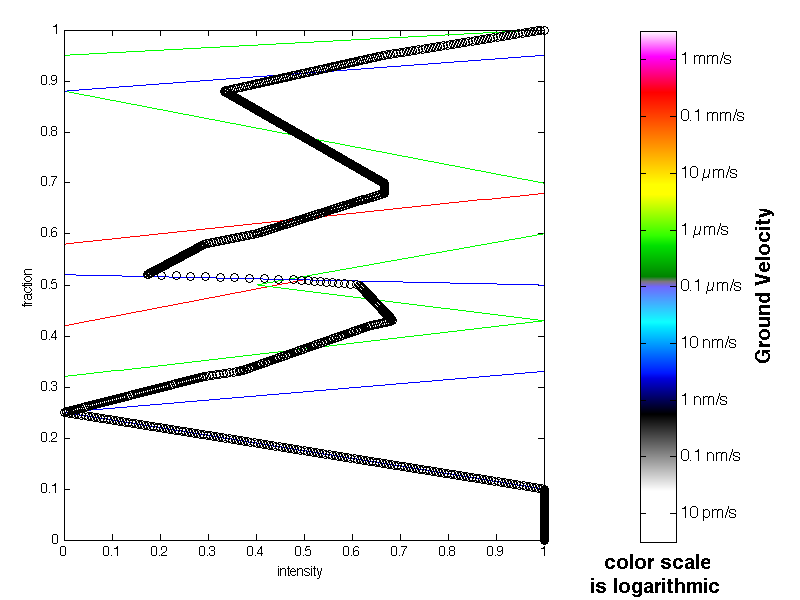
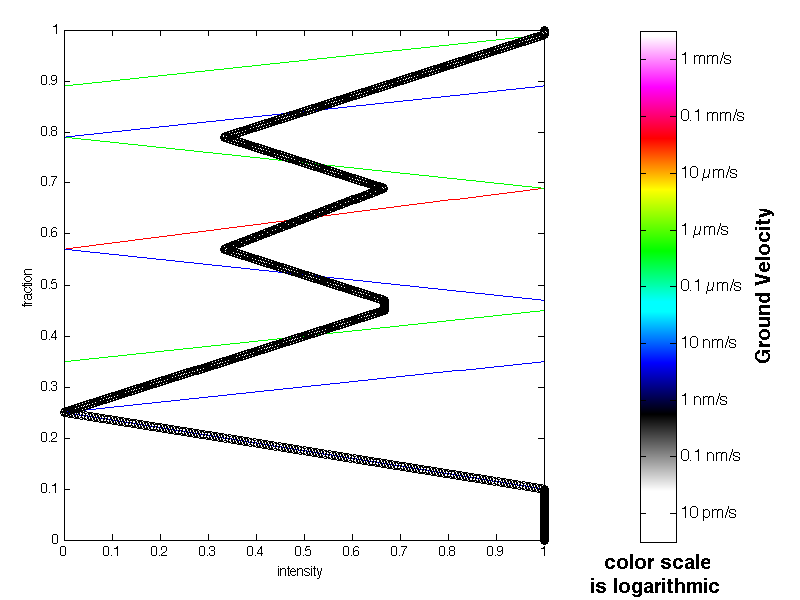
Minor improvement to colormap

diff --git a/data/matlab/toolbox/TreMoR/setup/colormaps/iceweb_spectrogram_colormap.m b/data/matlab/toolbox/TreMoR/setup/colormaps/iceweb_spectrogram_colormap.m
@@ -2,36 +2,32 @@ function h = iceweb_spectrogram_colormap(m)
 
 if nargin < 1, m = size(get(gcf,'colormap'),1); end
 MR=[0,1;
-    0.1, 1;
+    0.10, 1;
     0.25, 0;
-    0.42,0; 
-    0.51, 0.5;
-    0.52, 0;
-    0.58, 0;
-    0.68, 1;
+    0.57, 0;
+    0.69, 1;
     1,1];
 MG=[0,1;
-    0.1,1;
+    0.10, 1;
     0.25, 0;
-    0.32, 0;
-    0.43, 1;
-    0.5, 0.4;
-    0.6, 1;
-    0.7, 1;
-    0.88, 0;
-    0.95, 0
-    1, 1];
+    0.35, 0;
+    0.45, 1;
+    0.69, 1;
+    0.79, 0;
+    0.89, 0;
+    0.99, 1;
+    1.00, 1];
 
 MB=[0,1;
-    0.1, 1;
+    0.10, 1;
     0.25, 0;
-    0.33, 1;
-    0.5,1;
-    0.52, 0;
-    0.78, 0;
-    0.88, 0;
-    0.95, 1
-    1, 1];
+    0.35, 1;
+    0.45, 1;
+    0.47, 1;
+    0.57, 0;
+    0.79, 0;
+    0.89, 1;
+    1.00, 1];
 
 h = colormapRGBmatrices(m,MR,MG,MB);
 

diff --git a/data/matlab/toolbox/TreMoR/setup/colormaps/iceweb_spectrogram_colormap_alt.m b/data/matlab/toolbox/TreMoR/setup/colormaps/iceweb_spectrogram_colormap_alt.m
@@ -1,0 +1,43 @@
+function h = iceweb_spectrogram_colormap(m)
+
+if nargin < 1, m = size(get(gcf,'colormap'),1); end
+MR=[0.0, 1;
+    0.1, 1;
+    0.2, 0;
+    0.55, 0;
+    0.6, 0.5;
+    0.65, 1;
+    0.75, 0.5;
+    0.8, 0.5;
+    0.85, 1;
+    0.95, 1;
+    1.0, 1];
+MG=[0.0, 1;
+    0.1, 1;
+    0.2, 0;
+    0.3, 0;
+    0.35, 0.5;
+    0.4, 1;
+    0.5, 1;
+    0.55, 0.5;
+    0.6, 0.5;
+    0.65, 1;
+    0.75, 0;
+    0.85, 0;
+    0.95, 1;
+    1.0, 1];
+MB=[0.0, 1;
+    0.1, 1;
+    0.2, 0;
+    0.3, 1;
+    0.35, 0.5;
+    0.4, 1;
+    0.5, 0;
+    0.75, 0;
+    0.8, 0.5;
+    0.85, 1;
+    0.95, 1;
+    1.0, 1];
+
+h = colormapRGBmatrices(m,MR,MG,MB);
+
